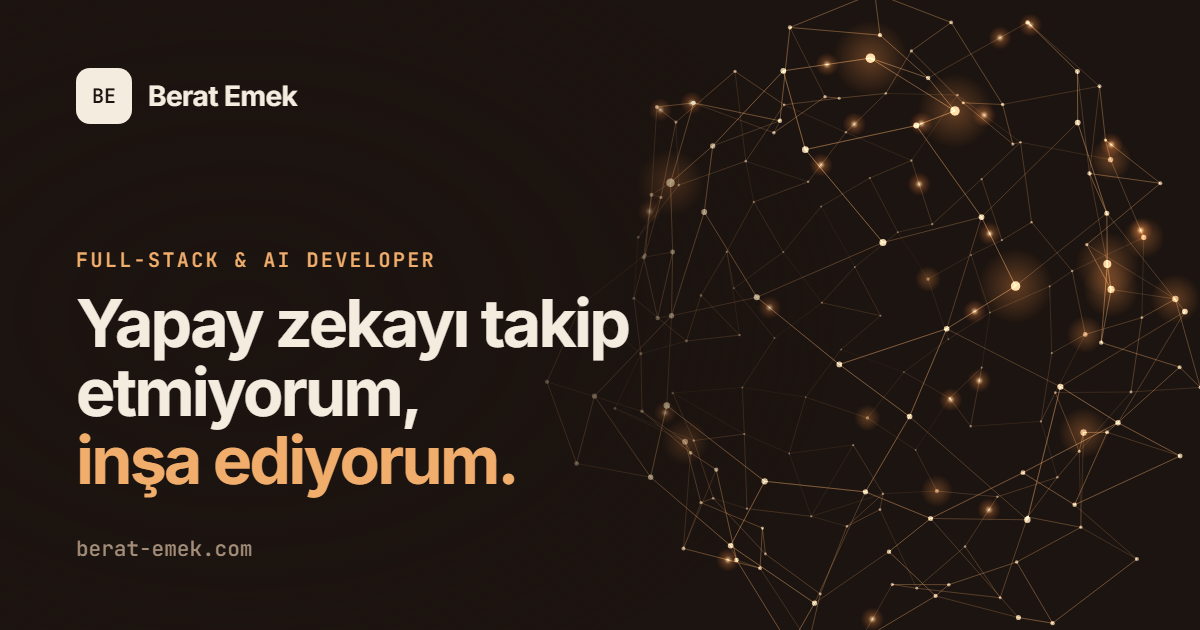
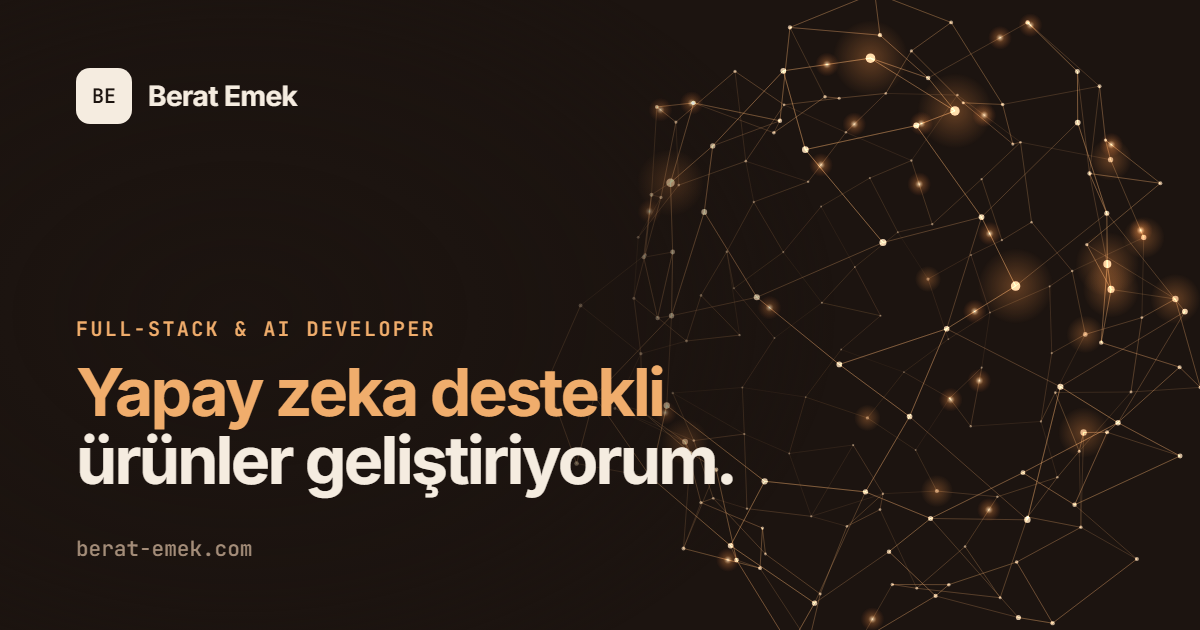
feat: sade ve profesyonel ana başlık
'Yapay zeka destekli ürünler geliştiriyorum.' (10 dilde); meta açıklamaları ve paylaşım görseli güncellendi.

Changed region(s): [[0.0617, 0.4524, 0.6167, 0.8143], [0.0617, 0.3921, 0.37, 0.4222]]

diff --git a/src/i18n/translations.js b/src/i18n/translations.js
@@ -42,9 +42,9 @@ export const DICT = {
     hero: {
       role: ROLE,
       latest: "Yeni yazı",
-      headline: "Yapay zekayı takip etmiyorum, inşa ediyorum.",
-      accent: "inşa ediyorum",
-      intro: "Ajanlar, dil modelleri ve otomasyonla yapay zeka ürünleri geliştiriyor, sahada denediklerimi ilk elden yazıyorum. Şu an VizioWise AI'da Morf üzerinde çalışıyorum.",
+      headline: "Yapay zeka destekli ürünler geliştiriyorum.",
+      accent: "Yapay zeka destekli",
+      intro: "Dil modelleri, ajan sistemleri ve full-stack geliştirme alanında çalışıyorum. Şu an VizioWise AI'da Morf'u geliştiriyor, denediklerimi ve öğrendiklerimi burada paylaşıyorum.",
       ctaPosts: "Yazıları oku",
       ctaLinkedin: "LinkedIn'de takip et",
       scroll: "Aşağı kaydır",
@@ -144,9 +144,9 @@ export const DICT = {
     hero: {
       role: ROLE,
       latest: "New post",
-      headline: "I don't follow AI. I build it.",
-      accent: "I build it",
-      intro: "I build AI products with agents, language models and automation, and write first-hand about what I test in the field. Right now I'm working on Morf at VizioWise AI.",
+      headline: "I build AI-powered products.",
+      accent: "AI-powered",
+      intro: "I work on language models, agent systems and full-stack development. I'm currently building Morf at VizioWise AI and sharing what I try and learn here.",
       ctaPosts: "Read the writing",
       ctaLinkedin: "Follow on LinkedIn",
       scroll: "Scroll",
@@ -246,9 +246,9 @@ export const DICT = {
     hero: {
       role: ROLE,
       latest: "Neuer Beitrag",
-      headline: "Ich folge der KI nicht. Ich baue sie.",
-      accent: "Ich baue sie",
-      intro: "Ich entwickle KI-Produkte mit Agenten, Sprachmodellen und Automatisierung und schreibe aus erster Hand über das, was ich in der Praxis teste. Derzeit arbeite ich bei VizioWise AI an Morf.",
+      headline: "Ich entwickle KI-gestützte Produkte.",
+      accent: "KI-gestützte",
+      intro: "Ich arbeite an Sprachmodellen, Agentensystemen und Full-Stack-Entwicklung. Derzeit entwickle ich Morf bei VizioWise AI und teile hier, was ich ausprobiere und lerne.",
       ctaPosts: "Beiträge lesen",
       ctaLinkedin: "Auf LinkedIn folgen",
       scroll: "Scrollen",
@@ -348,9 +348,9 @@ export const DICT = {
     hero: {
       role: ROLE,
       latest: "Nouvel article",
-      headline: "Je ne me contente pas de suivre l'IA. Je la construis.",
-      accent: "Je la construis",
-      intro: "Je développe des produits d'IA avec des agents, des modèles de langage et de l'automatisation, et j'écris de première main sur ce que je teste sur le terrain. Je travaille actuellement sur Morf chez VizioWise AI.",
+      headline: "Je développe des produits propulsés par l'IA.",
+      accent: "propulsés par l'IA",
+      intro: "Je travaille sur les modèles de langage, les systèmes d'agents et le développement full-stack. Je développe actuellement Morf chez VizioWise AI et je partage ici ce que j'essaie et apprends.",
       ctaPosts: "Lire les articles",
       ctaLinkedin: "Suivre sur LinkedIn",
       scroll: "Défiler",
@@ -450,9 +450,9 @@ export const DICT = {
     hero: {
       role: ROLE,
       latest: "Nuevo artículo",
-      headline: "No sigo la IA. La construyo.",
-      accent: "La construyo",
-      intro: "Desarrollo productos de IA con agentes, modelos de lenguaje y automatización, y escribo de primera mano sobre lo que pruebo en el terreno. Ahora trabajo en Morf en VizioWise AI.",
+      headline: "Desarrollo productos impulsados por IA.",
+      accent: "impulsados por IA",
+      intro: "Trabajo con modelos de lenguaje, sistemas de agentes y desarrollo full-stack. Actualmente desarrollo Morf en VizioWise AI y comparto aquí lo que pruebo y aprendo.",
       ctaPosts: "Leer los artículos",
       ctaLinkedin: "Seguir en LinkedIn",
       scroll: "Desplázate",
@@ -552,9 +552,9 @@ export const DICT = {
     hero: {
       role: ROLE,
       latest: "Nuovo articolo",
-      headline: "Non seguo l'IA. La costruisco.",
-      accent: "La costruisco",
-      intro: "Sviluppo prodotti di IA con agenti, modelli linguistici e automazione, e scrivo in prima persona di ciò che provo sul campo. Ora lavoro a Morf in VizioWise AI.",
+      headline: "Sviluppo prodotti basati sull'IA.",
+      accent: "basati sull'IA",
+      intro: "Lavoro su modelli linguistici, sistemi di agenti e sviluppo full-stack. Attualmente sviluppo Morf in VizioWise AI e condivido qui ciò che provo e imparo.",
       ctaPosts: "Leggi gli articoli",
       ctaLinkedin: "Seguimi su LinkedIn",
       scroll: "Scorri",
@@ -654,9 +654,9 @@ export const DICT = {
     hero: {
       role: ROLE,
       latest: "Novo artigo",
-      headline: "Eu não sigo a IA. Eu a construo.",
-      accent: "Eu a construo",
-      intro: "Desenvolvo produtos de IA com agentes, modelos de linguagem e automação, e escrevo em primeira mão sobre o que testo na prática. Hoje trabalho no Morf na VizioWise AI.",
+      headline: "Desenvolvo produtos movidos a IA.",
+      accent: "movidos a IA",
+      intro: "Trabalho com modelos de linguagem, sistemas de agentes e desenvolvimento full-stack. Hoje desenvolvo o Morf na VizioWise AI e compartilho aqui o que testo e aprendo.",
       ctaPosts: "Ler os artigos",
       ctaLinkedin: "Seguir no LinkedIn",
       scroll: "Role",
@@ -756,9 +756,9 @@ export const DICT = {
     hero: {
       role: ROLE,
       latest: "Новая статья",
-      headline: "Я не слежу за ИИ. Я его создаю.",
-      accent: "Я его создаю",
-      intro: "Я создаю ИИ-продукты на основе агентов, языковых моделей и автоматизации и пишу из первых рук о том, что проверяю на практике. Сейчас работаю над Morf в VizioWise AI.",
+      headline: "Я создаю продукты на основе ИИ.",
+      accent: "на основе ИИ",
+      intro: "Я работаю с языковыми моделями, агентными системами и full-stack-разработкой. Сейчас разрабатываю Morf в VizioWise AI и делюсь здесь тем, что пробую и чему учусь.",
       ctaPosts: "Читать статьи",
       ctaLinkedin: "Подписаться в LinkedIn",
       scroll: "Листайте",
@@ -840,9 +840,9 @@ export const DICT = {
     hero: {
       role: ROLE,
       latest: "新文章",
-      headline: "我不追随 AI，我构建它。",
-      accent: "我构建它",
-      intro: "我用智能体、语言模型和自动化打造 AI 产品，并把在实践中验证过的东西第一时间写下来。目前我在 VizioWise AI 开发 Morf。",
+      headline: "我打造 AI 驱动的产品。",
+      accent: "AI 驱动",
+      intro: "我专注于语言模型、智能体系统和全栈开发。目前我在 VizioWise AI 开发 Morf，并在这里分享我的尝试与收获。",
       ctaPosts: "阅读文章",
       ctaLinkedin: "在 LinkedIn 关注",
       scroll: "向下滚动",
@@ -903,9 +903,9 @@ export const DICT = {
     hero: {
       role: ROLE,
       latest: "新着記事",
-      headline: "AIを追いかけるのではなく、つくる。",
-      accent: "つくる",
-      intro: "エージェント、言語モデル、自動化でAIプロダクトを開発し、現場で試したことを一次情報として書いています。現在はVizioWise AIでMorfに取り組んでいます。",
+      headline: "AIを活用したプロダクトを開発しています。",
+      accent: "AIを活用した",
+      intro: "言語モデル、エージェントシステム、フルスタック開発に取り組んでいます。現在はVizioWise AIでMorfを開発しながら、試したことや学んだことをここで共有しています。",
       ctaPosts: "記事を読む",
       ctaLinkedin: "LinkedIn でフォロー",
       scroll: "スクロール",

diff --git a/index.html b/index.html
@@ -18,7 +18,7 @@
     <!-- Primary Meta Tags -->
     <title>Berat Emek — Full-Stack &amp; AI Developer</title>
     <meta name="title" content="Berat Emek — Full-Stack &amp; AI Developer" />
-    <meta name="description" content="Berat Emek — Full-Stack &amp; AI Developer. Ajanlar, dil modelleri ve otomasyonla yapay zeka ürünleri geliştiriyor, sahada denediklerini ilk elden yazıyor." />
+    <meta name="description" content="Berat Emek — Full-Stack &amp; AI Developer. Dil modelleri, ajan sistemleri ve full-stack geliştirme üzerine çalışıyor; VizioWise AI'da Morf'u geliştiriyor." />
     <meta name="keywords" content="Berat Emek, beratemek, AI developer, yapay zeka geliştirici, full-stack AI developer, LLM, yapay zeka ajanları, yapay zeka haberleri, yapay zeka gündemi, Türkiye" />
     <meta name="author" content="Berat Emek" />
     <meta name="robots" content="index, follow, max-image-preview:large, max-snippet:-1" />
@@ -28,7 +28,7 @@
     <meta property="og:type" content="website" />
     <meta property="og:url" content="https://berat-emek.com/" />
     <meta property="og:title" content="Berat Emek — Full-Stack &amp; AI Developer" />
-    <meta property="og:description" content="Yapay zekayı takip etmiyorum, inşa ediyorum. Ajanlar, dil modelleri ve otomasyon üzerine projeler ve yazılar." />
+    <meta property="og:description" content="Yapay zeka destekli ürünler geliştiriyorum. Dil modelleri, ajan sistemleri ve full-stack geliştirme üzerine projeler ve yazılar." />
     <meta property="og:image" content="https://berat-emek.com/og-cover.png" />
     <meta property="og:image:width" content="1200" />
     <meta property="og:image:height" content="630" />
@@ -39,7 +39,7 @@
     <!-- Twitter -->
     <meta name="twitter:card" content="summary_large_image" />
     <meta name="twitter:title" content="Berat Emek — Full-Stack &amp; AI Developer" />
-    <meta name="twitter:description" content="Yapay zekayı takip etmiyorum, inşa ediyorum." />
+    <meta name="twitter:description" content="Yapay zeka destekli ürünler geliştiriyorum." />
     <meta name="twitter:image" content="https://berat-emek.com/og-cover.png" />
 
     <!-- Favicon -->
@@ -64,7 +64,7 @@
         "url": "https://berat-emek.com",
         "image": "https://berat-emek.com/berat.jpg",
         "jobTitle": "Full-Stack & AI Developer",
-        "description": "Full-Stack & AI Developer. Ajanlar, dil modelleri ve otomasyonla yapay zeka ürünleri geliştiriyor, sahada denediklerini ilk elden yazıyor.",
+        "description": "Full-Stack & AI Developer. Dil modelleri, ajan sistemleri ve full-stack geliştirme üzerine çalışıyor; VizioWise AI'da Morf'u geliştiriyor.",
         "alumniOf": {
           "@type": "CollegeOrUniversity",
           "name": "Erciyes Üniversitesi",
